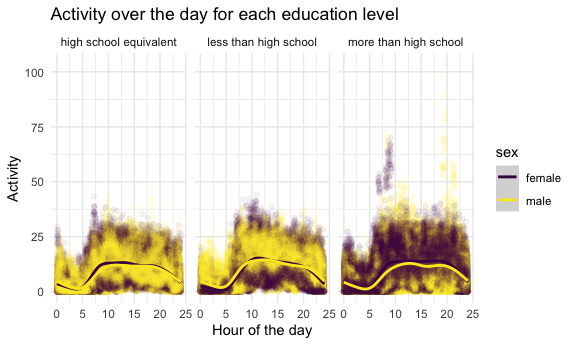
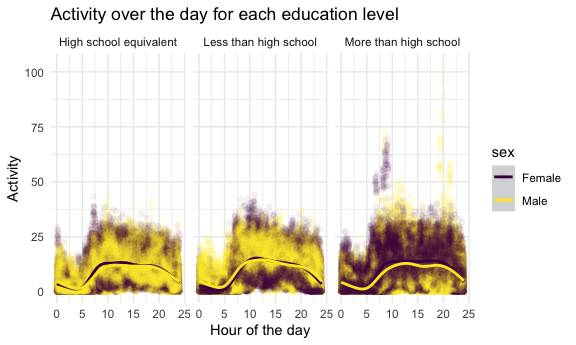
more edits to problem 3

diff --git a/p8105_hw3_cc5423.md b/p8105_hw3_cc5423.md
@@ -159,8 +159,13 @@ Read in datasets:
 demo_df =
   read_csv("data/nhanes_covar.csv", skip = 4, na = c("","NA",".")) |> 
   janitor::clean_names() |> 
-  mutate(sex = recode(sex, `1` = "male", `2` = "female"),
-         education = as.factor(recode(education, `1` = "less than high school", `2` = "high school equivalent", `3` = "more than high school"))) |> 
+  mutate(sex = recode(sex, 
+                      `1` = "Male", 
+                      `2` = "Female"),
+         education = as.factor(recode(education, 
+                                      `1` = "Less than high school", 
+                                      `2` = "High school equivalent", 
+                                      `3` = "More than high school"))) |> 
   filter(age >= 21) |> 
   drop_na()
 ```
@@ -218,16 +223,16 @@ final_accel_df |>
 
 | sex    | education              |   n |
 |:-------|:-----------------------|----:|
-| female | high school equivalent |  23 |
-| female | less than high school  |  28 |
-| female | more than high school  |  59 |
-| male   | high school equivalent |  35 |
-| male   | less than high school  |  27 |
-| male   | more than high school  |  56 |
+| Female | High school equivalent |  23 |
+| Female | Less than high school  |  28 |
+| Female | More than high school  |  59 |
+| Male   | High school equivalent |  35 |
+| Male   | Less than high school  |  27 |
+| Male   | More than high school  |  56 |
 
 The majority of women have more than a high school degree at (n = 59).
 Similarly, the majority of men have more than a high school degree at (n
-= 54).
+= 56).
 
 Visualizing the distribution of age of men and women in each education
 category:
@@ -415,13 +420,13 @@ all_df |>
 | member        | Jul   | 2020 | 15411 |
 | member        | Jul   | 2024 | 36262 |
 
-The fewest rides for casual riders happened in January 2024 (n = 6708),
-and the most rides for casual riders happened in July 2020 (n = 20113).
-In general, for casual riders, more rides happen in July than in
-January. The fewest rides for Citi Bike members happened in January 2020
-(n = 3), and the most rides for casual riders happened in July 2024 (n =
-30858). In general, for Citi Bike members, fewer rides happened in 2020
-as opposed to 2024.
+The fewest rides for casual riders happened in January 2020 (n = 984),
+and the most rides for casual riders happened in July 2024 (n = 10894).
+In general, for casual riders, more rides happen in July and in 2024
+than in January or in 2020. The fewest rides for Citi Bike members
+happened in January 2020 (n = 11436), and the most rides for casual
+riders happened in July 2024 (n = 36262). In general, for Citi Bike
+members, fewer rides happened in 2020 as opposed to 2024.
 
 Table showing the 5 most popular starting stations for July 2024:
 
